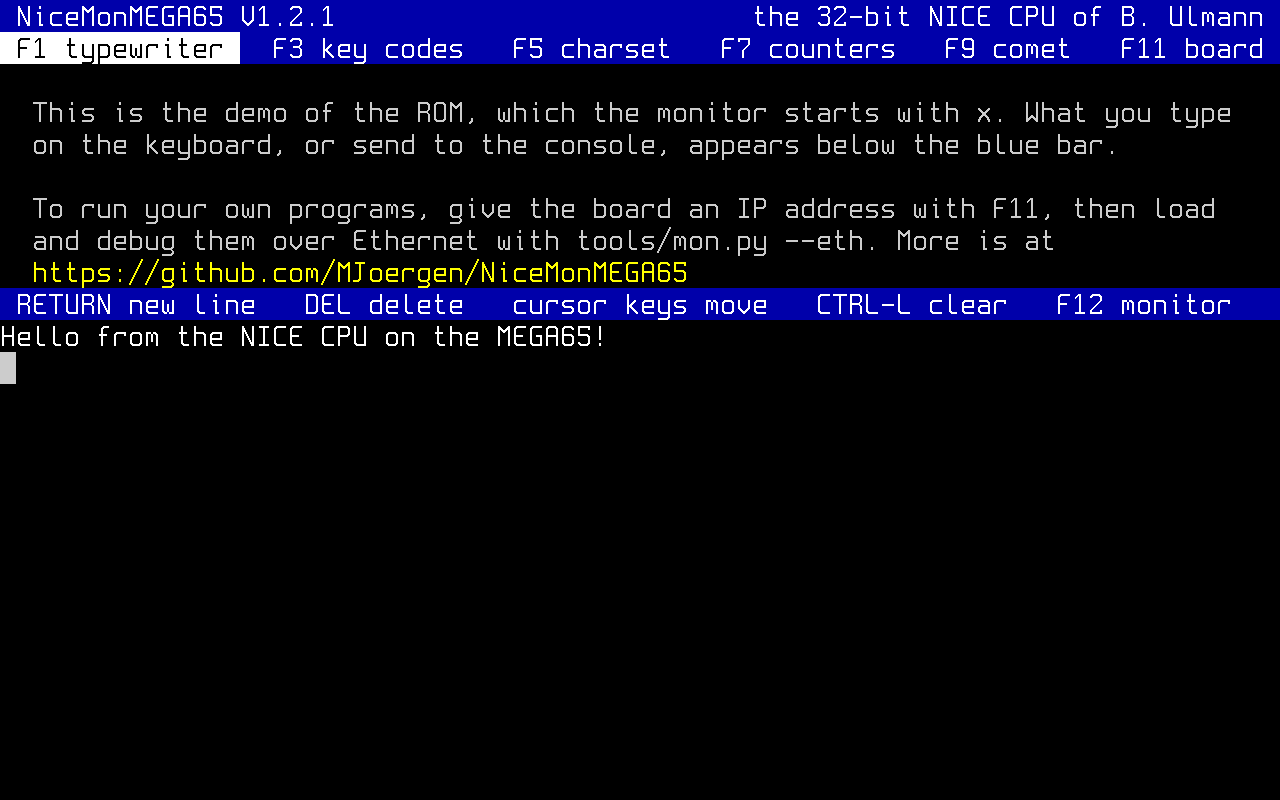
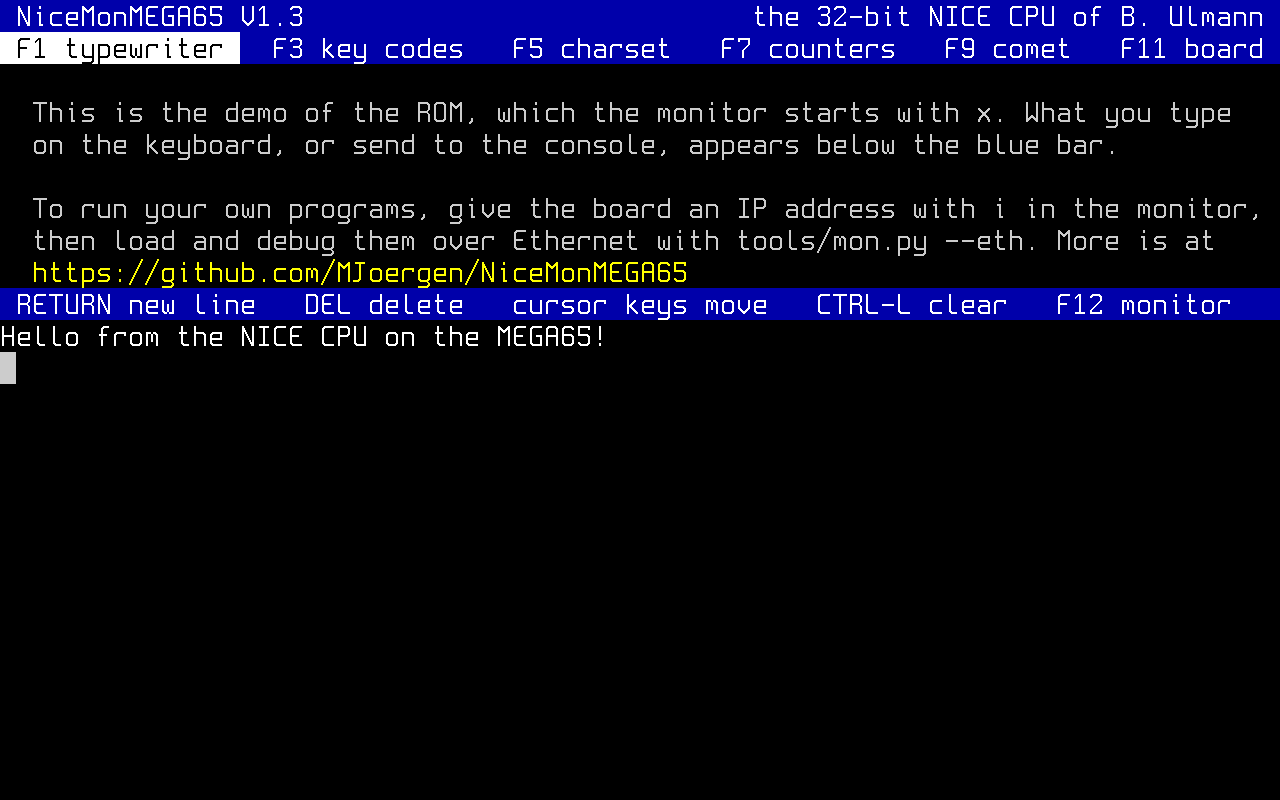
Date the notes and draw the pictures for V1.3
The V1.3 section was not dated, and it did not name the monitor's new
m, nor the welcome's move from F11 to i for the IP address. The README's
pictures still showed V1.2.1 and the welcome before m.

The section has the date and a line each for m and the welcome. The
three pictures of doc/images/ are drawn again from the ROM with the tag
V1.3, and screenshot.py's docstring names that tag.

diff --git a/tools/screenshot.py b/tools/screenshot.py
@@ -22,7 +22,7 @@ The pictures of doc/images/ are made from the ROM of the release, the
 monitor and the demo behind it, with its tag, and x and CR first, which
 start the demo:
 
-    make -C demo VERSION=V1.2.1
+    make -C demo VERSION=V1.3
     printf 'x\\rHello from the NICE CPU on the MEGA65!\\r' > in.txt
     tools/screenshot.py -i in.txt -o doc/images/demo.png demo/build/rom.bin
 

diff --git a/doc/RELEASE_NOTES.md b/doc/RELEASE_NOTES.md
@@ -21,7 +21,7 @@ The release candidates pinned these:
 
 nice_cpu's `RC01` and `RC03` have no tag here.
 
-## V1.3 (not yet released)
+## V1.3 (2026-11-03)
 
 **Upgrade notes.**
 
@@ -48,6 +48,15 @@ nice_cpu's `RC01` and `RC03` have no tag here.
   with no host, in the text of nice_cpu's `nicedis.py` and `mon.py`
   (#72). A call, `ADD @--R13, n, R15` and `MOVE R15, target`, shows as
   `CALL target`, and `MOVE R15, @R13++` as `RET`.
+- `m` shows the Ethernet station's MAC address, and `m
+  02:4E:49:43:45:01` writes it first, so two boards on one network can
+  have different ones without the demo's F11. The first byte must be
+  even.
+
+**Demo**
+
+- The welcome sends the reader to the monitor's `i` for the IP address,
+  where it named F11.
 
 **Tools**
 
